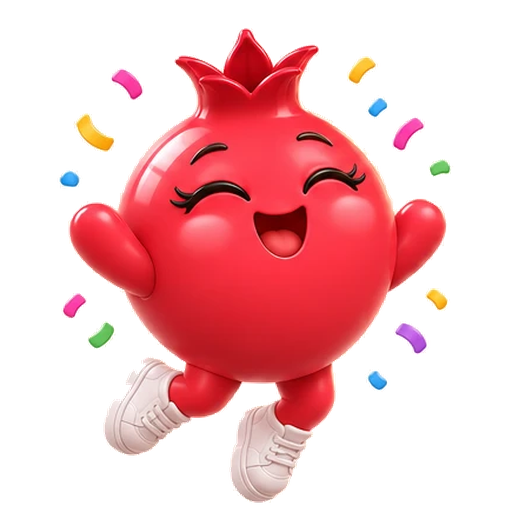
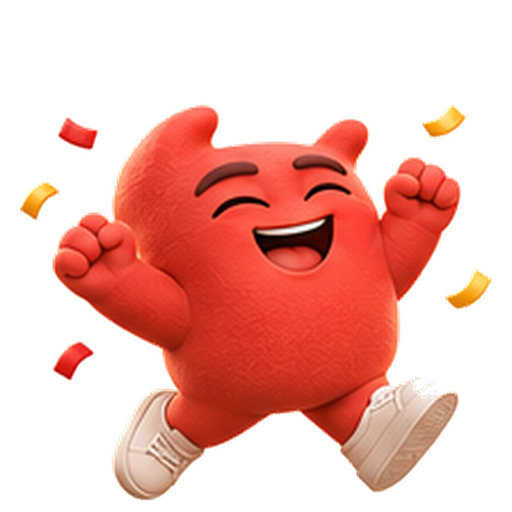
Maskot: tüklü qırmızı personaj (30 poza + çantalı əsas şəkil qarşılama ekranında)
Claude-Session: https://claude.ai/code/session_017gsKy1tKh97o2VnjyJDq1F

diff --git a/mobile/src/components/mascotAssets.ts b/mobile/src/components/mascotAssets.ts
@@ -3,32 +3,33 @@
 export const MASCOT: Record<string, number> = {
   call: require('../../assets/mascot/call.png'),
   calm: require('../../assets/mascot/calm.png'),
+  coffee: require('../../assets/mascot/coffee.png'),
   coin: require('../../assets/mascot/coin.png'),
+  cool: require('../../assets/mascot/cool.png'),
   crown: require('../../assets/mascot/crown.png'),
+  cute: require('../../assets/mascot/cute.png'),
+  dance: require('../../assets/mascot/dance.png'),
+  game: require('../../assets/mascot/game.png'),
   gift: require('../../assets/mascot/gift.png'),
+  heart: require('../../assets/mascot/heart.png'),
+  hero: require('../../assets/mascot/hero.png'),
+  kiss: require('../../assets/mascot/kiss.png'),
+  laugh: require('../../assets/mascot/laugh.png'),
   love: require('../../assets/mascot/love.png'),
+  music: require('../../assets/mascot/music.png'),
   nazar: require('../../assets/mascot/nazar.png'),
   party: require('../../assets/mascot/party.png'),
+  rose: require('../../assets/mascot/rose.png'),
   sad: require('../../assets/mascot/sad.png'),
   search: require('../../assets/mascot/search.png'),
   shy: require('../../assets/mascot/shy.png'),
   sing: require('../../assets/mascot/sing.png'),
   sleep: require('../../assets/mascot/sleep.png'),
   think: require('../../assets/mascot/think.png'),
+  thumbs: require('../../assets/mascot/thumbs.png'),
+  trophy: require('../../assets/mascot/trophy.png'),
   wave: require('../../assets/mascot/wave.png'),
+  welcome: require('../../assets/mascot/welcome.png'),
   wink: require('../../assets/mascot/wink.png'),
   wow: require('../../assets/mascot/wow.png'),
-  thumbs: require('../../assets/mascot/crown.png'),
-  trophy: require('../../assets/mascot/crown.png'),
-  coffee: require('../../assets/mascot/calm.png'),
-  dance: require('../../assets/mascot/party.png'),
-  cute: require('../../assets/mascot/shy.png'),
-  laugh: require('../../assets/mascot/party.png'),
-  kiss: require('../../assets/mascot/love.png'),
-  welcome: require('../../assets/mascot/wave.png'),
-  music: require('../../assets/mascot/sing.png'),
-  game: require('../../assets/mascot/wink.png'),
-  heart: require('../../assets/mascot/love.png'),
-  rose: require('../../assets/mascot/love.png'),
-  cool: require('../../assets/mascot/wink.png'),
 };

diff --git a/mobile/src/components/Mascot.tsx b/mobile/src/components/Mascot.tsx
@@ -4,7 +4,7 @@ import { Image } from 'expo-image';
 import { MASCOT } from './mascotAssets';
 
 /**
- * Simo maskotu — 3D parlaq qırmızı nar (17 şəkil, qalan pozalar ən yaxına yönəlir). Şəkillər `assets/mascot/*.png`-dədir,
+ * Simo maskotu — 3D tüklü qırmızı personaj (30 poza + çantalı əsas şəkil `hero`). Şəkillər `assets/mascot/*.png`-dədir,
  * `design/mascot/slice.py` `design/mascot/source/`-dakı cədvəllərdən avtomatik kəsir.
  */
 export type MascotPose =
@@ -12,7 +12,7 @@ export type MascotPose =
   | 'coin' | 'crown' | 'search' | 'wow' | 'sleep' | 'sad'
   | 'party' | 'nazar' | 'shy' | 'think' | 'laugh' | 'kiss'
   | 'coffee' | 'welcome' | 'dance' | 'music' | 'game' | 'trophy'
-  | 'heart' | 'thumbs' | 'cute' | 'rose' | 'calm' | 'cool';
+  | 'heart' | 'thumbs' | 'cute' | 'rose' | 'calm' | 'cool' | 'hero';
 
 export function Mascot({ pose = 'wave', size = 120, float = true, style }: { pose?: MascotPose; size?: number; float?: boolean; style?: StyleProp<ViewStyle> }) {
   const v = useRef(new Animated.Value(0)).current;

diff --git a/mobile/app/(auth)/welcome.tsx b/mobile/app/(auth)/welcome.tsx
@@ -52,7 +52,7 @@ export default function Welcome() {
           })}
         </SafeAreaView>
         <View style={[styles.disc, { top: topH * 0.2, left: W / 2 - topH * 0.36, width: topH * 0.72, height: topH * 0.72, borderRadius: topH }]} />
-        <Float i={0} style={{ top: topH * 0.3, left: W / 2 - topH * 0.25 }}><Mascot size={topH * 0.56} pose="wave" float={false} /></Float>
+        <Float i={0} style={{ top: topH * 0.3, left: W / 2 - topH * 0.25 }}><Mascot size={topH * 0.56} pose="hero" float={false} /></Float>
         <Float i={1} style={{ top: topH * 0.2, left: 18, transform: [{ rotate: '-6deg' }] }}><SpeechBlock color="lime" size="sm" tail="right">{t('auth.bubble1')}</SpeechBlock></Float>
         <Float i={2} style={{ top: topH * 0.36, right: 14, transform: [{ rotate: '5deg' }] }}><SpeechBlock color="lilac" size="sm">{t('auth.bubble2')}</SpeechBlock></Float>
         <Float i={3} style={{ top: topH * 0.74, left: 26, transform: [{ rotate: '4deg' }] }}><SpeechBlock color="saffron" size="sm" tail="right">{t('auth.bubble3')}</SpeechBlock></Float>
